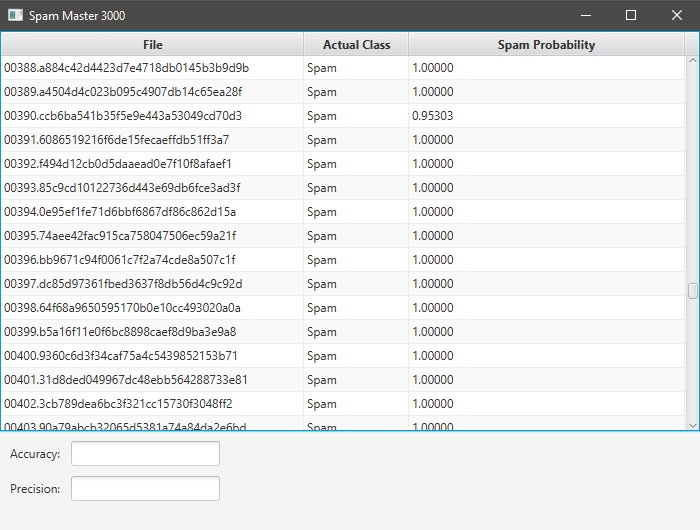
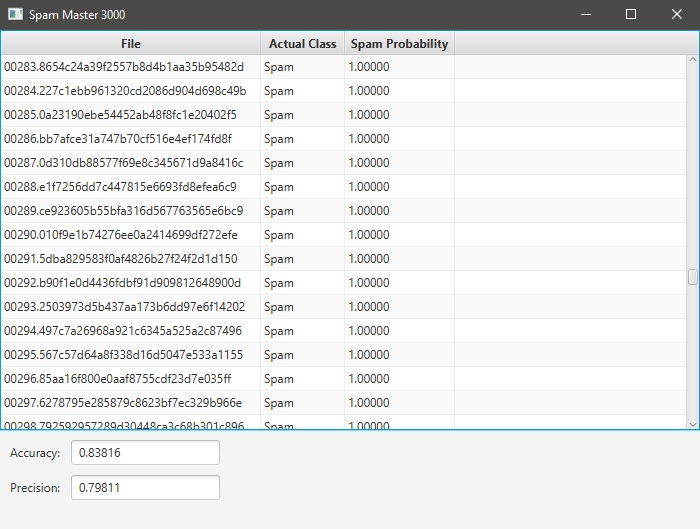
Details and comments, readme updated

diff --git a/Project/src/sample/Controller.java b/Project/src/sample/Controller.java
@@ -80,19 +80,19 @@ public class Controller {
             Integer numTrueNegatives = 0;
             int numFalsePositives=0;
             int numFiles=0;
-            // must calculate accuracy and precision
+
+
+            // Calculate accuracy and precision
             for (TestFile file : testFiles){
 
-                // in here
-                // Do whatever with each file
-                // getSpamProbCalc() gets the calculated probability in type double
-                if ((file.getSpamProbCalc()>=0.5)&&(file.getActualClass().equals("Spam"))){
+                Double fileSpamProb = file.getSpamProbCalc();
+                if ((fileSpamProb >= 0.5) && (file.getActualClass().equals("Spam"))){
                     numTruePositives++;
                 }
-                if ((file.getSpamProbCalc()<0.5)&&(file.getActualClass().equals("Ham"))){
+                if ((fileSpamProb < 0.5) && (file.getActualClass().equals("Ham"))){
                     numTrueNegatives++;
                 }
-                if ((file.getSpamProbCalc()>=0.5)&&(file.getActualClass().equals("Ham"))){
+                if ((fileSpamProb >= 0.5) && (file.getActualClass().equals("Ham"))){
                     numFalsePositives++;
                 }
                 numFiles++;
@@ -101,12 +101,12 @@ public class Controller {
 
 
             double accuracy=(double)(numTruePositives+numTrueNegatives)/numFiles;
-            System.out.println(accuracy);
             double precision=(double)numTruePositives/(numFalsePositives+numTruePositives);
             DecimalFormat formatter = new DecimalFormat("0.00000");
-            
-            txtAccuracy.setText(String.valueOf(formatter.format(accuracy)));
-            txtPrecision.setText(String.valueOf(formatter.format(precision)));
+
+            // update
+            txtAccuracy.setText(formatter.format(accuracy));
+            txtPrecision.setText(formatter.format(precision));
 
 
         } catch(IOException e){

diff --git a/Project/src/sample/Main.java b/Project/src/sample/Main.java
@@ -23,7 +23,9 @@ public class Main extends Application {
         // Prompts user to choose folders
         DirectoryChooser directoryChooser = new DirectoryChooser();
         directoryChooser.setInitialDirectory(new File("."));
+        directoryChooser.setTitle("Select training folder");
         File trainDir = directoryChooser.showDialog(primaryStage);
+        directoryChooser.setTitle("Select testing folder");
         File testDir = directoryChooser.showDialog(primaryStage);
 
         // pass the directories chosen into the controller

diff --git a/README.md b/README.md
@@ -3,7 +3,7 @@
 
 | Group Member               | ID         |
 |:--------------------------:|:----------:|
-| Maria Anashkina            | ---------- |
+| Maria Anashkina            | 100746854  |
 | Avril Lopez van Domselaar  | 100746008  |
 
 When running the program, the user must select two folders; first, the training folder, where spam and ham folders are expected with corresponding emails inside each; and then a testing folder, where spam and ham folders are also expected with corresponding emails inside each.
@@ -27,7 +27,7 @@ For easy running, using any terminal where gradle is installed, navigate to the 
 
 <ins>Credit</ins>
 
-For some of the classes in the program, mostly FileCounter.java and Probabilities.java, some code was taken from the module 5 course examples.
+For some of the classes in the program, mostly FileCounter.java and Probabilities.java, some functions and code structure was taken from the module 5 course examples, to be specific, from WordCount.java: parseFiles(file), isValid(word), coundWord(word).
 
 For the layout of the README we took inspiration from https://meakaakka.medium.com/a-beginners-guide-to-writing-a-kickass-readme-7ac01da88ab3
 
